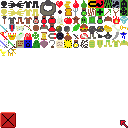
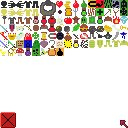
Added two new monsters and some items

Changed region(s): [[0.125, 0.375, 0.5, 0.4375]]

diff --git a/doorsofdoom/src/main/java/com/github/msx80/doorsofdoom/model/Item.java b/doorsofdoom/src/main/java/com/github/msx80/doorsofdoom/model/Item.java
@@ -49,6 +49,7 @@ public enum Item {
 	DuraniumArmour("Duranium Armour", 350, new String[] {"Best armour ever"}, 23, Place.Body, null, null, null),
 	
 	Key("Key", 319, new String[] {"Opens doors.", "Be careful not to", "run out of them."}, 0, null, null, null, null),
+	KeyRing("Keyring", 353, new String[] {"Contains exacly ",Craft.GROUP_PURCHASE+" keys"}, 0, null, null, Usable.of("Open", keyRing()), null),
 	Cheese("Cheese", 317, new String[] {"Stinky and delicious.", "", "Heal 4 hp."}, 0, null, null, Usable.of("Eat", (i, g) -> foodHealing(i, g, 4)), null),
 	Blood("Blood", 265,  new String[] {"It's always good", "to bring some", "around."}, 0, null, null, null, null),
 	Leather("Leather", 297, new String[] {"Ready to be", "stitched."}, 0, null, null, null, null), 
@@ -88,11 +89,15 @@ public enum Item {
 	Bomb("Bomb", 312, new String[] {"Kaboom!", "", "Deals 40 damage."}, 0, null, null, null, Usable.of("Throw", bomb())),
 	
 	Sprite("Sprite", 335, new String[] {"A sprite you", "befriended.", "", "Deals "+DoorsOfDoom.SPRITE_DAMAGE+" damages."}, 0, null, null, null, Usable.of("Unleash", sprite())),
+	Bee("Bee", 357, new String[] {"A friendly bee", "attracted by your", "scent of honey.", "", "Deals "+DoorsOfDoom.BEE_DAMAGE+" damages."}, 0, null, null, null, Usable.of("Unleash", bee())),
 	Slime("Slime", 340, new String[] {"Smelly", "and sticky.", "A bit like glue."}, 0, null, null, null, null),
 	Fur("Fur", 346, new String[] {"From the hide", "of some wild beast."}, 0, null, null, null, null),
 	Duranium("Duranium", 347, new String[] {"A magical material", "incredibly strong."}, 0, null, null, null, null),
 	
 	MagicLamp("Magic Lamp", 352, new String[] {"No wishing for","more wishes"}, 0, null, null, Usable.of("Rub", magicLamp()), null),
+	Mushroom("Magic Mushroom", 354, new String[] {"Doesn't look safe", "to eat honestly."}, 0, null, null, null,  Usable.of("Eat", shroom()) ),
+	CleansingPotion("Cleansing Potion", 355, new String[] {"Grape flavored", "perhaps?", "", "Remove bad","effects."}, 0, null, null, Usable.of("Drink", cleansing()), null ),
+	HoneyPot("Honey Pot", 358, new String[] {"A sweet moment", "in this bitter", "dungeon."}, 0, null, null, Usable.of("Slurp", honey()), null )
 	;
 	
 	public final String name;
@@ -127,7 +132,15 @@ public enum Item {
 			g.getRun().pg.addEffect(Effect.LUCKY, 20);
 		};
 	}
-
+	
+	private static UsableFunc keyRing() {
+		return (i, g) -> {
+			int num = Craft.GROUP_PURCHASE;
+			g.getLog().add(15, "You unbundle ", 14, i.name, 15, " and get ", 13, num + "", 15, " keys!");
+			g.getRun().pg.inventoryAdd(i, -1);
+			g.getRun().pg.inventoryAdd(Item.Key, num);
+		};
+	}
 	private static UsableFunc bagOfGold() {
 		return (i, g) -> {
 			int num = DoorsOfDoom.r.nextInt(21) + 20;
@@ -189,6 +202,42 @@ public enum Item {
 			}
 		};
 	}
+
+	private static UsableFunc shroom() {
+		return (i, g) -> {
+			
+			g.getRun().pg.inventoryAdd(i, -1);
+			g.getRun().pg.addEffect(Effect.POISONED);
+			g.getRun().pg.addEffect(Effect.MUSCLES);
+			g.getLog().add(15, "You eat ", 14, i.name);
+			g.getLog().add(15, "  you feel both stronger and nauseated..");
+			
+		};
+	}
+
+	private static UsableFunc honey() {
+		return (i, g) -> {
+			
+			g.getRun().pg.inventoryAdd(i, -1);
+			g.getRun().pg.addEffect(Effect.HONEYED);
+			g.getLog().add(15, "You eat ", 14, i.name, 15, ". So sweet!");
+			g.getLog().add(15, "  But you smeared yourself with it.");
+			
+		};
+	}
+
+	private static UsableFunc cleansing() {
+		return (i, g) -> {
+			
+			g.getRun().pg.inventoryAdd(i, -1);
+			g.getRun().pg.removeBadEffects();
+			
+			g.getLog().add(15, "You drink ", 14, i.name);
+			g.getLog().add(15, "  you feel deeply cleansed..");
+			
+		};
+	}
+	
 	
 	private static UsableFunc bomb() {
 		return (i, g) -> {
@@ -221,6 +270,14 @@ public enum Item {
 			g.getRun().pg.inventoryAdd(i, -1);
 			g.damageMonster(DoorsOfDoom.SPRITE_DAMAGE, null);
 			g.getLog().add(15, "You unleash ", 14, i.name, 15, " and deal ", 6, ""+DoorsOfDoom.SPRITE_DAMAGE, 15, " damage!");
+		};
+	}
+	
+	private static UsableFunc bee() {
+		return (i, g) -> {
+			g.getRun().pg.inventoryAdd(i, -1);
+			g.damageMonster(DoorsOfDoom.BEE_DAMAGE, null);
+			g.getLog().add(15, "You unleash ", 14, i.name, 15, " and deal ", 6, ""+DoorsOfDoom.BEE_DAMAGE, 15, " damage!");
 		};
 	}
 	

diff --git a/doorsofdoom/src/main/java/com/github/msx80/doorsofdoom/model/MonsterDef.java b/doorsofdoom/src/main/java/com/github/msx80/doorsofdoom/model/MonsterDef.java
@@ -94,7 +94,8 @@ public enum MonsterDef {
 		range(15, 40),
 		range(3, 6),
 		Loot.of(3, Item.Clover, range(1, 2)),
-		Loot.of(1, Item.Spinach, range(1, 1))
+		Loot.of(1, Item.Spinach, range(1, 1)),
+		Loot.of(1, Item.Mushroom, range(1, 2))
 	),
 	MIMIC(
 		"MIMIC", -14,
@@ -133,6 +134,7 @@ public enum MonsterDef {
 		Loot.of(6, Item.Bread, range(2, 3)),
 		Loot.of(4, Item.Tomato, range(2, 3)),
 		Loot.of(2, Item.Cheese, range(2, 4)),
+		Loot.of(2, Item.HoneyPot, range(1, 3)),
 		Loot.of(5, Item.Fork, range(1, 1))
 	),
 	FIREIMP(
@@ -295,15 +297,25 @@ public enum MonsterDef {
 		Loot.of(1, Item.Slime, range(4, 6))
 	),
 	VAMPIRE(
-		"VAMPIRE", -32,
-		range(40, 70),
-		range(20, 30),
-		range(65, 1000),
-		range(30, 50),
-		Loot.of(1, Item.Sword, range(1, 1)),
-		Loot.of(1, Item.Fang, range(2, 2)),
-		Loot.of(1, Item.Blood, range(3, 6))
-	),
+			"VAMPIRE", -32,
+			range(40, 70),
+			range(20, 30),
+			range(65, 1000),
+			range(30, 50),
+			Loot.of(1, Item.Sword, range(1, 1)),
+			Loot.of(1, Item.Fang, range(2, 2)),
+			Loot.of(1, Item.Blood, range(3, 6))
+		),
+	WITCH(
+			"WITCH", -44,
+			range(30, 50),
+			range(40, 50),
+			range(94, 130),
+			range(3, 12),
+			Loot.of(1, Item.HoneyPot, range(1, 2)),
+			Loot.of(1, Item.Mushroom, range(2, 2)),
+			Loot.of(1, Item.CleansingPotion, range(3, 5))
+		),
 	DEMON(
 		"DEMON", -19,
 		range(50, 100),
@@ -399,6 +411,15 @@ public enum MonsterDef {
 			range(160, 1000),
 			range(20, 50),
 			Loot.of(1, Item.Wisdom, range(1, 1))
+		),	
+	TRIFFID(
+			"TRIFFID", -43,
+			range(90, 110), // hp
+			range(20, 50), // attack
+			range(140, 1000), // levels
+			range(5, 12), // gold
+			Loot.of(10, Item.Slime, range(2, 3)),
+			Loot.of(10, Item.MintLeaf, range(2, 5))
 		),	
 
 	;

diff --git a/doorsofdoom/src/main/java/com/github/msx80/doorsofdoom/DoorsOfDoom.java b/doorsofdoom/src/main/java/com/github/msx80/doorsofdoom/DoorsOfDoom.java
@@ -46,6 +46,7 @@ public class DoorsOfDoom implements Game, GameInterface {
 	public static final int EXIT_BONUS = 5000;
 	public static final int CROWN_POINT = 200;
 	public static final int SPRITE_DAMAGE = 25;
+	public static final int BEE_DAMAGE = 10;
 	
 	public final int BUTTONS_X = 167; // 8 * 12 + 3;
 	public final int STATS_X = 97; // 8 * 12 + 3;
@@ -250,10 +251,20 @@ public class DoorsOfDoom implements Game, GameInterface {
 	
 	void endTurn() {
 
+		if (run.pg.hasEffect(Effect.HONEYED)) {
+			log.add(15, "A ", 14, Item.Bee.name, 15, " arrives from who knows where.. ");
+			run.pg.inventoryAdd(Item.Bee, 1);
+		}
+		
 		
 		if (run.pg.hasEffect(Effect.REGENERATION)) {
 			log.add(15, "You regenerate ", 6, "2", 15, " hp!");
 			run.damage(run.pg, -2);
+		}
+		
+		if (run.pg.hasEffect(Effect.POISONED)) {
+			log.add(15, "You're poisoned! ", 6, "-2", 15, " hp!");
+			run.damage(run.pg, 2);
 		}
 		
 		if (run.pg.hasEffect(Effect.MADNESS)) {
@@ -263,6 +274,7 @@ public class DoorsOfDoom implements Game, GameInterface {
 		}
 		
 		run.pg.decEffects();
+		refreshCommands();
 	}
 	
 	void killMonster() {
@@ -321,6 +333,8 @@ public class DoorsOfDoom implements Game, GameInterface {
 		}
 		*/
 		
+		//String platform = (String) Sys.hardware("com.github.msx80.omicron.plugins.builtin.PlatformPlugin", "PLATFORM", null);
+		//cursor = platform.contains("DESKTOP");
 		this.r = new Random(Sys.millis());
 		
 		

diff --git a/doorsofdoom/src/main/java/com/github/msx80/doorsofdoom/model/Effect.java b/doorsofdoom/src/main/java/com/github/msx80/doorsofdoom/model/Effect.java
@@ -2,24 +2,28 @@ package com.github.msx80.doorsofdoom.model;
 
 public enum Effect {
 
-	SMOKE("SMOKE", 270, 6),
-	LUCKY("LUCKY", 287, 9),
-	GHOSTLY("GHOSTLY", 271, 20),
-	MUSCLES("MUSCLES", 268, 15),
-	MAGNETIC("MAGNETIC", 267, 10),
-	REGENERATION("REGENERATION", 284, 10),
-	MADNESS("MADNESS", 339, 8),
-	BARRIER("MAGIC BARRIER", 344, 15)
+	SMOKE("SMOKE", 270, 6, true),
+	LUCKY("LUCKY", 287, 9, true),
+	GHOSTLY("GHOSTLY", 271, 20, true),
+	MUSCLES("MUSCLES", 268, 15, true),
+	MAGNETIC("MAGNETIC", 267, 10, true),
+	REGENERATION("REGENERATION", 284, 10, true),
+	MADNESS("MADNESS", 339, 8, false),
+	BARRIER("MAGIC BARRIER", 344, 15, true),
+	POISONED("POISONED", 356, 10, false),
+	HONEYED("HONEYED", 359, 6, true),
 	;
 	
 	public final String name;
 	public final int sprite;
 	public final int turns;
+	public final boolean positive;
 	
-	private Effect(String name, int sprite, int turns) {
+	private Effect(String name, int sprite, int turns, boolean positive) {
 		this.name = name;
 		this.sprite = sprite;
 		this.turns = turns;
+		this.positive = positive;
 	}
 	
 	/*

diff --git a/doorsofdoom/src/test/java/com/github/msx80/doorsofdoom/DoorsOfDoomTest.java b/doorsofdoom/src/test/java/com/github/msx80/doorsofdoom/DoorsOfDoomTest.java
@@ -6,6 +6,7 @@ import java.util.HashMap;
 import java.util.List;
 import java.util.Map;
 import java.util.Random;
+import java.util.Set;
 import java.util.stream.Collectors;
 import java.util.stream.Stream;
 
@@ -55,6 +56,16 @@ class DoorsOfDoomTest {
 			final int level = i;
 			List<MonsterDef> eligibles = Stream.of(MonsterDef.values()).filter(m -> m.levels.contains(level)).sorted().collect(Collectors.toList());
 			System.out.println("LEVEL: " + i + " : " + eligibles.size() + " -> " + eligibles);
+		}
+	}
+	@Test
+	void testLootByLevel() {
+		for (int i = 0; i < 300; i++) {
+			
+			final int level = i;
+			Set<Item> loots = Stream.of(MonsterDef.values()).filter(m -> m.levels.contains(level)).flatMap(m -> Stream.of(m.loots)).map(l -> l.item).collect(Collectors.toSet());
+						
+			System.out.println("LEVEL: " + i + " : " + loots.size() + " -> " + loots);
 		}
 	}
 	@Test

diff --git a/doorsofdoom/src/main/java/com/github/msx80/doorsofdoom/model/Pg.java b/doorsofdoom/src/main/java/com/github/msx80/doorsofdoom/model/Pg.java
@@ -140,4 +140,14 @@ public class Pg extends Entity {
 		this.hp += i;
 		ricalcola();		
 	}
+
+	public void removeBadEffects() {
+		for (Effect e : Effect.values()) {
+			if(!e.positive)
+			{
+				effects.remove(e);
+			}
+		}
+		ricalcola();
+	}
 }
